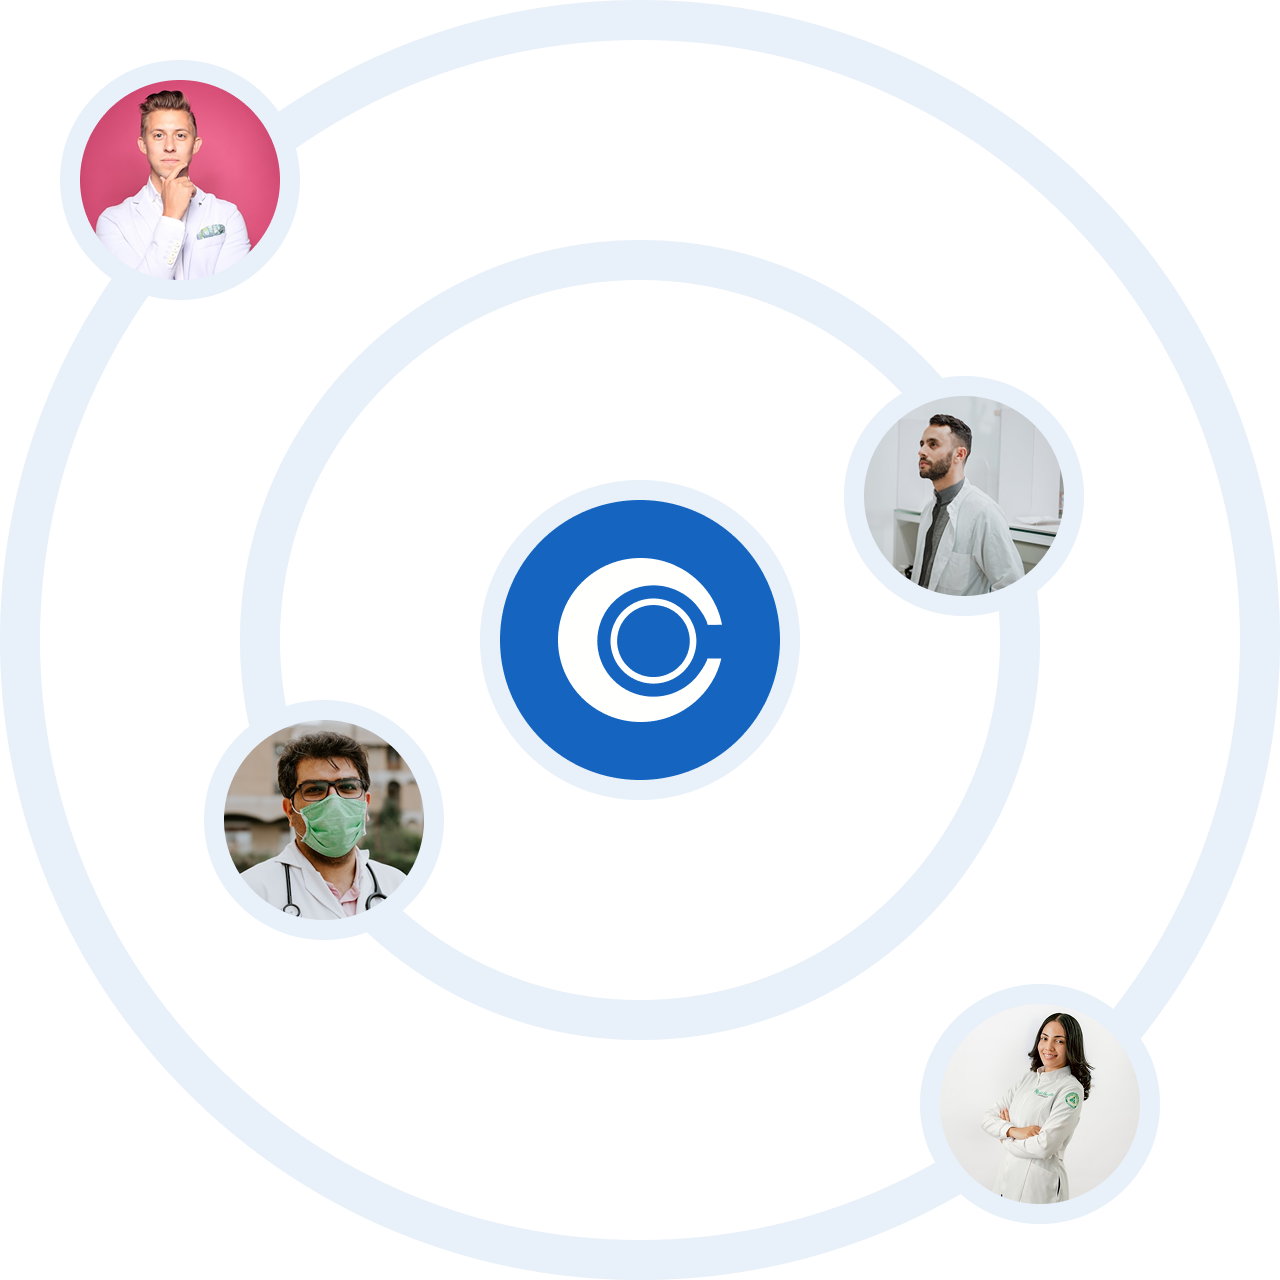
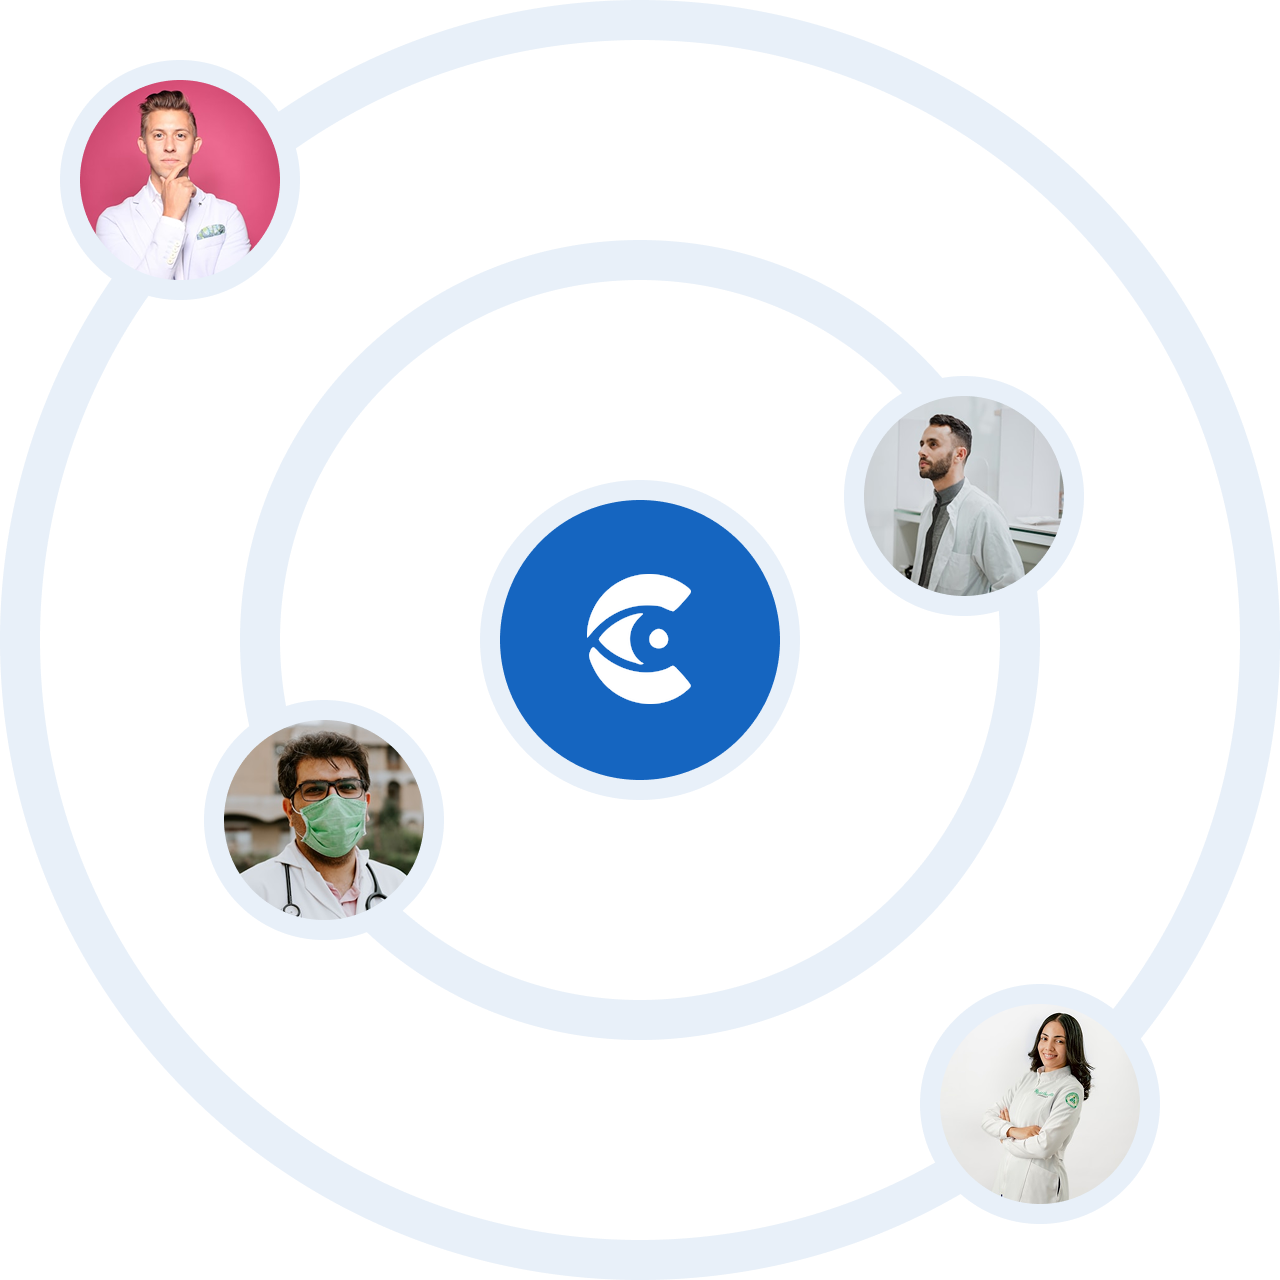
chore: format files with prettier

Changed region(s): [[0.4375, 0.4375, 0.5625, 0.5625]]

diff --git a/src/features/onboarding/components/SplashAnimation.tsx b/src/features/onboarding/components/SplashAnimation.tsx
@@ -1,86 +1,47 @@
 import React, { useEffect, useRef } from 'react';
-import { Animated, Dimensions, StyleSheet, Text, View } from 'react-native';
+import { Animated, Image, StyleSheet, Text, View } from 'react-native';
 
 import { ClinsightLogo } from '@/shared/components';
 
-import { Svg, Path } from 'react-native-svg';
-
-const { width: W, height: H } = Dimensions.get('window');
-const SPLASH_BG = '#FFFFFF';
-
-const PATTERN_COLS = 3; // Even larger for more impact
-const CELL_SIZE = W / PATTERN_COLS;
-const PATTERN_ROWS = Math.ceil(H / CELL_SIZE) + 1;
+const patternBg = require('../../../../assets/images/splash-bg-pattern.png');
 
 interface SplashAnimationProps {
   onComplete: () => void;
 }
 
 export function SplashAnimation({ onComplete }: SplashAnimationProps) {
-  const iconOpacity = useRef(new Animated.Value(0)).current;
-  const iconScale = useRef(new Animated.Value(0.7)).current;
-  const textOpacity = useRef(new Animated.Value(0)).current;
   const containerOpacity = useRef(new Animated.Value(1)).current;
+  const onCompleteRef = useRef(onComplete);
 
   useEffect(() => {
-    Animated.sequence([
-      Animated.parallel([
-        Animated.timing(iconOpacity, { toValue: 1, duration: 420, useNativeDriver: true }),
-        Animated.spring(iconScale, { toValue: 1, friction: 6, tension: 80, useNativeDriver: true }),
-      ]),
-      Animated.delay(180),
-      Animated.timing(textOpacity, { toValue: 1, duration: 320, useNativeDriver: true }),
-      Animated.delay(1500),
-      Animated.timing(containerOpacity, { toValue: 0, duration: 340, useNativeDriver: true }),
-    ]).start(() => onComplete());
-  }, [containerOpacity, iconOpacity, iconScale, onComplete, textOpacity]);
+    onCompleteRef.current = onComplete;
+  }, [onComplete]);
+
+  useEffect(() => {
+    const animation = Animated.sequence([
+      Animated.delay(2600),
+      Animated.timing(containerOpacity, { toValue: 0, duration: 400, useNativeDriver: true }),
+    ]);
+
+    animation.start(({ finished }) => {
+      if (finished) {
+        onCompleteRef.current();
+      }
+    });
+
+    return () => {
+      animation.stop();
+    };
+  }, [containerOpacity]);
 
   return (
     <Animated.View style={[styles.container, { opacity: containerOpacity }]}>
-      <PatternBackground />
+      <Image source={patternBg} style={styles.patternBg} fadeDuration={0} />
       <View style={styles.center}>
-        <Animated.View style={{ opacity: iconOpacity, transform: [{ scale: iconScale }] }}>
-          <ClinsightLogo size={60} color="#0D6DDB" />
-        </Animated.View>
-        <Animated.View style={{ opacity: textOpacity }}>
-          <Text style={styles.brandText}>Clinsight</Text>
-        </Animated.View>
+        <ClinsightLogo width={48.5} height={60} />
+        <Text style={styles.brandText}>Clinsight</Text>
       </View>
     </Animated.View>
-  );
-}
-
-function PatternBackground() {
-  return (
-    <View style={styles.patternContainer} pointerEvents="none">
-      {Array.from({ length: PATTERN_ROWS }).map((_, row) => (
-        <View key={row} style={[styles.patternRow, { height: CELL_SIZE }]}>
-          {Array.from({ length: PATTERN_COLS + 1 }).map((_, col) => (
-            <View key={col} style={[styles.patternCell, { width: CELL_SIZE, height: CELL_SIZE }]}>
-              <TightLogo size={CELL_SIZE * 1.05} color="#0D6DDB" />
-            </View>
-          ))}
-        </View>
-      ))}
-    </View>
-  );
-}
-
-function TightLogo({ size, color }: { size: number; color: string }) {
-  // Tight crop (34.5-74.5 on x-axis) and (0-40 on y-axis) to ensure no border artifacts
-  return (
-    <Svg width={size} height={size} viewBox="34.5 0.5 40 40">
-      <Path
-        d="M54.6781 0C64.7862 0 73.1999 7.19023 75 16.6929L71.403 16.7238C71.2582 15.8856 70.74 14.6454 69.1834 12.5379C67.6268 10.4303 65.5029 8.79969 63.0552 7.83277C60.6074 6.86588 57.9344 6.60159 55.3423 7.07035C52.7501 7.53914 50.3434 8.72205 48.3976 10.4835C46.7452 11.9795 45.4775 13.8456 44.7004 15.9261C43.9234 18.0066 43.6596 20.2411 43.9308 22.4433C44.202 24.6454 45.0006 26.7512 46.2597 28.5852C47.5188 30.4192 49.2019 31.9282 51.1689 32.9861C53.1359 34.044 55.3297 34.62 57.567 34.6665C59.8042 34.7129 62.0203 34.2284 64.0302 33.2532C66.0401 32.2779 67.7857 30.8401 69.1213 29.06C70.4567 27.2799 71.134 25.9737 71.3669 25.1351L74.8285 25.1219C72.7143 34.2178 64.4952 41 54.6781 41C43.2579 41 34 31.8218 34 20.5C34 9.17816 43.2579 0 54.6781 0Z"
-        fill={color}
-      />
-      <Path
-        fillRule="evenodd"
-        clipRule="evenodd"
-        d="M50.624 12.901C52.7259 10.9984 55.504 10.0016 58.3472 10.1297C61.1904 10.2578 63.8659 11.5004 65.785 13.5841C67.7041 15.6679 68.7096 18.4223 68.5804 21.241C68.4511 24.0597 67.1977 26.7122 65.0959 28.6147C62.994 30.5172 60.2159 31.5139 57.3727 31.3858C54.5294 31.2577 51.854 30.0151 49.9349 27.9313C48.0158 25.8476 47.0103 23.0934 47.1395 20.2746C47.2688 17.4559 48.5222 14.8035 50.624 12.901ZM58.2724 11.7648C55.8666 11.6564 53.5158 12.4999 51.7373 14.1097C49.9588 15.7195 48.8982 17.964 48.7888 20.3491C48.6795 22.7341 49.5303 25.0647 51.1541 26.8279C52.7779 28.591 55.0417 29.6425 57.4475 29.7509C59.8533 29.8593 62.2041 29.0156 63.9826 27.4058C65.7611 25.7959 66.8217 23.5517 66.9311 21.1666C67.0404 18.7815 66.1896 16.451 64.5658 14.6878C62.9419 12.9247 60.6782 11.8732 58.2724 11.7648Z"
-        fill={color}
-      />
-    </Svg>
   );
 }
 
@@ -91,38 +52,27 @@ const styles = StyleSheet.create({
     left: 0,
     right: 0,
     bottom: 0,
-    backgroundColor: SPLASH_BG,
+    backgroundColor: '#FFFFFF',
     alignItems: 'center',
     justifyContent: 'center',
     zIndex: 999,
   },
-  patternContainer: {
+  patternBg: {
     ...StyleSheet.absoluteFillObject,
-    alignItems: 'center',
-    justifyContent: 'center',
-    opacity: 0.05, // Lowered for larger elements
+    width: '100%',
+    height: '100%',
+    resizeMode: 'cover',
   },
   center: {
+    flexDirection: 'row',
     alignItems: 'center',
+    gap: 6,
     zIndex: 10,
   },
   brandText: {
-    marginTop: 14,
-    fontSize: 32,
-    fontFamily: 'PlayfairDisplay_700Bold',
+    fontFamily: 'Inter_400Regular',
+    fontSize: 30,
     color: '#0D6DDB',
-    letterSpacing: 0.5,
-  },
-  patternRow: {
-    flexDirection: 'row',
-  },
-  patternCell: {
-    alignItems: 'center',
-    justifyContent: 'center',
-  },
-  circle: {
-    position: 'absolute',
-    borderColor: '#0D6DDB',
-    opacity: 0.35, // Individual circle border opacity
+    letterSpacing: -0.6,
   },
 });

diff --git a/src/features/onboarding/components/SplashSequenceScreen.tsx b/src/features/onboarding/components/SplashSequenceScreen.tsx
@@ -1,91 +1,37 @@
 import React, { useEffect, useRef } from 'react';
-import { Animated, Dimensions, StyleSheet, Text, View } from 'react-native';
-import { Svg, Path } from 'react-native-svg';
+import { Image, StyleSheet, Text, View } from 'react-native';
 
 import { ClinsightLogo } from '@/shared/components';
 
-const { width: W, height: H } = Dimensions.get('window');
-
-const PATTERN_COLS = 3;
-const CELL_SIZE = W / PATTERN_COLS;
-const PATTERN_ROWS = Math.ceil(H / CELL_SIZE) + 1;
-
-// Timing (ms): icon in → 3000ms hold → wordmark fade-in 300ms → hold 900ms → done
-const WORDMARK_DELAY = 1500;
-const WORDMARK_DURATION = 300;
-const HOLD_AFTER = 1200;
+const patternBg = require('../../../../assets/images/splash-bg-pattern.png');
 
 interface SplashSequenceScreenProps {
   onComplete: () => void;
 }
 
 export function SplashSequenceScreen({ onComplete }: SplashSequenceScreenProps) {
-  const iconOpacity = useRef(new Animated.Value(0)).current;
-  const wordmarkOpacity = useRef(new Animated.Value(0)).current;
+  const onCompleteRef = useRef(onComplete);
 
   useEffect(() => {
-    Animated.sequence([
-      // Icon fades in immediately
-      Animated.timing(iconOpacity, { toValue: 1, duration: 400, useNativeDriver: true }),
-      // Hold until wordmark delay
-      Animated.delay(WORDMARK_DELAY - 400),
-      // Wordmark fades in
-      Animated.timing(wordmarkOpacity, {
-        toValue: 1,
-        duration: WORDMARK_DURATION,
-        useNativeDriver: true,
-      }),
-      // Hold before navigating
-      Animated.delay(HOLD_AFTER),
-    ]).start(() => onComplete());
-  }, [iconOpacity, onComplete, wordmarkOpacity]);
+    onCompleteRef.current = onComplete;
+  }, [onComplete]);
+
+  useEffect(() => {
+    const timer = setTimeout(() => {
+      onCompleteRef.current();
+    }, 3000);
+
+    return () => clearTimeout(timer);
+  }, []);
 
   return (
     <View style={styles.container}>
-      <PatternBackground />
+      <Image source={patternBg} style={styles.patternBg} fadeDuration={0} />
       <View style={styles.center}>
-        <Animated.View style={{ opacity: iconOpacity }}>
-          <ClinsightLogo size={60} color="#0D6DDB" />
-        </Animated.View>
-        <Animated.View style={{ opacity: wordmarkOpacity }}>
-          <Text style={styles.wordmark}>Clinsight</Text>
-        </Animated.View>
+        <ClinsightLogo width={48.5} height={60} />
+        <Text style={styles.wordmark}>Clinsight</Text>
       </View>
     </View>
-  );
-}
-
-function PatternBackground() {
-  return (
-    <View style={styles.patternContainer} pointerEvents="none">
-      {Array.from({ length: PATTERN_ROWS }).map((_, row) => (
-        <View key={row} style={[styles.patternRow, { height: CELL_SIZE }]}>
-          {Array.from({ length: PATTERN_COLS + 1 }).map((_, col) => (
-            <View key={col} style={[styles.patternCell, { width: CELL_SIZE, height: CELL_SIZE }]}>
-              <TightLogo size={CELL_SIZE * 1.05} color="#0D6DDB" />
-            </View>
-          ))}
-        </View>
-      ))}
-    </View>
-  );
-}
-
-function TightLogo({ size, color }: { size: number; color: string }) {
-  // Tight crop (34.5-74.5 on x-axis) and (0.5-40.5 on y-axis)
-  return (
-    <Svg width={size} height={size} viewBox="34.5 0.5 40 40">
-      <Path
-        d="M54.6781 0C64.7862 0 73.1999 7.19023 75 16.6929L71.403 16.7238C71.2582 15.8856 70.74 14.6454 69.1834 12.5379C67.6268 10.4303 65.5029 8.79969 63.0552 7.83277C60.6074 6.86588 57.9344 6.60159 55.3423 7.07035C52.7501 7.53914 50.3434 8.72205 48.3976 10.4835C46.7452 11.9795 45.4775 13.8456 44.7004 15.9261C43.9234 18.0066 43.6596 20.2411 43.9308 22.4433C44.202 24.6454 45.0006 26.7512 46.2597 28.5852C47.5188 30.4192 49.2019 31.9282 51.1689 32.9861C53.1359 34.044 55.3297 34.62 57.567 34.6665C59.8042 34.7129 62.0203 34.2284 64.0302 33.2532C66.0401 32.2779 67.7857 30.8401 69.1213 29.06C70.4567 27.2799 71.134 25.9737 71.3669 25.1351L74.8285 25.1219C72.7143 34.2178 64.4952 41 54.6781 41C43.2579 41 34 31.8218 34 20.5C34 9.17816 43.2579 0 54.6781 0Z"
-        fill={color}
-      />
-      <Path
-        fillRule="evenodd"
-        clipRule="evenodd"
-        d="M50.624 12.901C52.7259 10.9984 55.504 10.0016 58.3472 10.1297C61.1904 10.2578 63.8659 11.5004 65.785 13.5841C67.7041 15.6679 68.7096 18.4223 68.5804 21.241C68.4511 24.0597 67.1977 26.7122 65.0959 28.6147C62.994 30.5172 60.2159 31.5139 57.3727 31.3858C54.5294 31.2577 51.854 30.0151 49.9349 27.9313C48.0158 25.8476 47.0103 23.0934 47.1395 20.2746C47.2688 17.4559 48.5222 14.8035 50.624 12.901ZM58.2724 11.7648C55.8666 11.6564 53.5158 12.4999 51.7373 14.1097C49.9588 15.7195 48.8982 17.964 48.7888 20.3491C48.6795 22.7341 49.5303 25.0647 51.1541 26.8279C52.7779 28.591 55.0417 29.6425 57.4475 29.7509C59.8533 29.8593 62.2041 29.0156 63.9826 27.4058C65.7611 25.7959 66.8217 23.5517 66.9311 21.1666C67.0404 18.7815 66.1896 16.451 64.5658 14.6878C62.9419 12.9247 60.6782 11.8732 58.2724 11.7648Z"
-        fill={color}
-      />
-    </Svg>
   );
 }
 
@@ -96,28 +42,22 @@ const styles = StyleSheet.create({
     alignItems: 'center',
     justifyContent: 'center',
   },
-  patternContainer: {
+  patternBg: {
     ...StyleSheet.absoluteFillObject,
-    alignItems: 'center',
-    justifyContent: 'center',
-    opacity: 0.05,
+    width: '100%',
+    height: '100%',
+    resizeMode: 'cover',
   },
   center: {
+    flexDirection: 'row',
     alignItems: 'center',
-    gap: 14,
+    gap: 6,
     zIndex: 10,
   },
   wordmark: {
-    fontFamily: 'PlayfairDisplay_500Medium',
-    fontSize: 32,
+    fontFamily: 'Inter_400Regular',
+    fontSize: 30,
     color: '#0D6DDB',
-    letterSpacing: 0.5,
-  },
-  patternRow: {
-    flexDirection: 'row',
-  },
-  patternCell: {
-    alignItems: 'center',
-    justifyContent: 'center',
+    letterSpacing: -0.6,
   },
 });

diff --git a/src/shared/components/ClinsightLogo.tsx b/src/shared/components/ClinsightLogo.tsx
@@ -1,24 +1,25 @@
 import React from 'react';
-import { Path, Svg } from 'react-native-svg';
+import { Image, ImageStyle, StyleProp } from 'react-native';
+
+const logoSource = require('../../../assets/images/Clinsight.png');
 
 interface ClinsightLogoProps {
   size?: number;
-  color?: string;
+  width?: number;
+  height?: number;
+  color?: string; // Maintained for prop interface compatibility
+  style?: StyleProp<ImageStyle>;
 }
 
-export function ClinsightLogo({ size = 48, color = '#0D6DDB' }: ClinsightLogoProps) {
+export function ClinsightLogo({ size = 48, width, height, style }: ClinsightLogoProps) {
+  const w = width ?? size;
+  const h = height ?? size;
   return (
-    <Svg width={size} height={size} viewBox="34 0 41 41" fill="none">
-      <Path
-        d="M54.6781 0C64.7862 0 73.1999 7.19023 75 16.6929L71.403 16.7238C71.2582 15.8856 70.74 14.6454 69.1834 12.5379C67.6268 10.4303 65.5029 8.79969 63.0552 7.83277C60.6074 6.86588 57.9344 6.60159 55.3423 7.07035C52.7501 7.53914 50.3434 8.72205 48.3976 10.4835C46.7452 11.9795 45.4775 13.8456 44.7004 15.9261C43.9234 18.0066 43.6596 20.2411 43.9308 22.4433C44.202 24.6454 45.0006 26.7512 46.2597 28.5852C47.5188 30.4192 49.2019 31.9282 51.1689 32.9861C53.1359 34.044 55.3297 34.62 57.567 34.6665C59.8042 34.7129 62.0203 34.2284 64.0302 33.2532C66.0401 32.2779 67.7857 30.8401 69.1213 29.06C70.4567 27.2799 71.134 25.9737 71.3669 25.1351L74.8285 25.1219C72.7143 34.2178 64.4952 41 54.6781 41C43.2579 41 34 31.8218 34 20.5C34 9.17816 43.2579 0 54.6781 0Z"
-        fill={color}
-      />
-      <Path
-        fillRule="evenodd"
-        clipRule="evenodd"
-        d="M50.624 12.901C52.7259 10.9984 55.504 10.0016 58.3472 10.1297C61.1904 10.2578 63.8659 11.5004 65.785 13.5841C67.7041 15.6679 68.7096 18.4223 68.5804 21.241C68.4511 24.0597 67.1977 26.7122 65.0959 28.6147C62.994 30.5172 60.2159 31.5139 57.3727 31.3858C54.5294 31.2577 51.854 30.0151 49.9349 27.9313C48.0158 25.8476 47.0103 23.0934 47.1395 20.2746C47.2688 17.4559 48.5222 14.8035 50.624 12.901ZM58.2724 11.7648C55.8666 11.6564 53.5158 12.4999 51.7373 14.1097C49.9588 15.7195 48.8982 17.964 48.7888 20.3491C48.6795 22.7341 49.5303 25.0647 51.1541 26.8279C52.7779 28.591 55.0417 29.6425 57.4475 29.7509C59.8533 29.8593 62.2041 29.0156 63.9826 27.4058C65.7611 25.7959 66.8217 23.5517 66.9311 21.1666C67.0404 18.7815 66.1896 16.451 64.5658 14.6878C62.9419 12.9247 60.6782 11.8732 58.2724 11.7648Z"
-        fill={color}
-      />
-    </Svg>
+    <Image
+      source={logoSource}
+      style={[{ width: w, height: h }, style]}
+      resizeMode="contain"
+      fadeDuration={0}
+    />
   );
 }

diff --git a/src/shared/components/PatternBackground.tsx b/src/shared/components/PatternBackground.tsx
@@ -26,7 +26,10 @@ export function PatternBackground({
       {Array.from({ length: PATTERN_ROWS }).map((_, row) => (
         <View key={row} style={[styles.patternRow, { height: CELL_H }]}>
           {Array.from({ length: PATTERN_COLS + 1 }).map((_, col) => (
-            <View key={col} style={[styles.patternCell, { width: CELL_W, height: CELL_H }]}>
+            <View
+              key={col}
+              style={[styles.patternCell, { width: CELL_W, height: CELL_H, opacity }]}
+            >
               <ClinsightLogo size={50} color={color} />
             </View>
           ))}

diff --git a/src/shared/constants/env.ts b/src/shared/constants/env.ts
@@ -9,8 +9,8 @@ export const env = {
   API_BASE_URL:
     process.env.EXPO_PUBLIC_API_BASE_URL ??
     (typeof __DEV__ !== 'undefined' && __DEV__
-      ? 'https://api.staging.clinsight.hng14.com'
-      : 'https://api.clinsight.hng14.com'),
+      ? 'https://api.staging.useclinsight.com'
+      : 'https://api.useclinsight.com'),
 } as const;
 
 export const shouldPersistOnboarding = env.APP_ENV === 'production';
